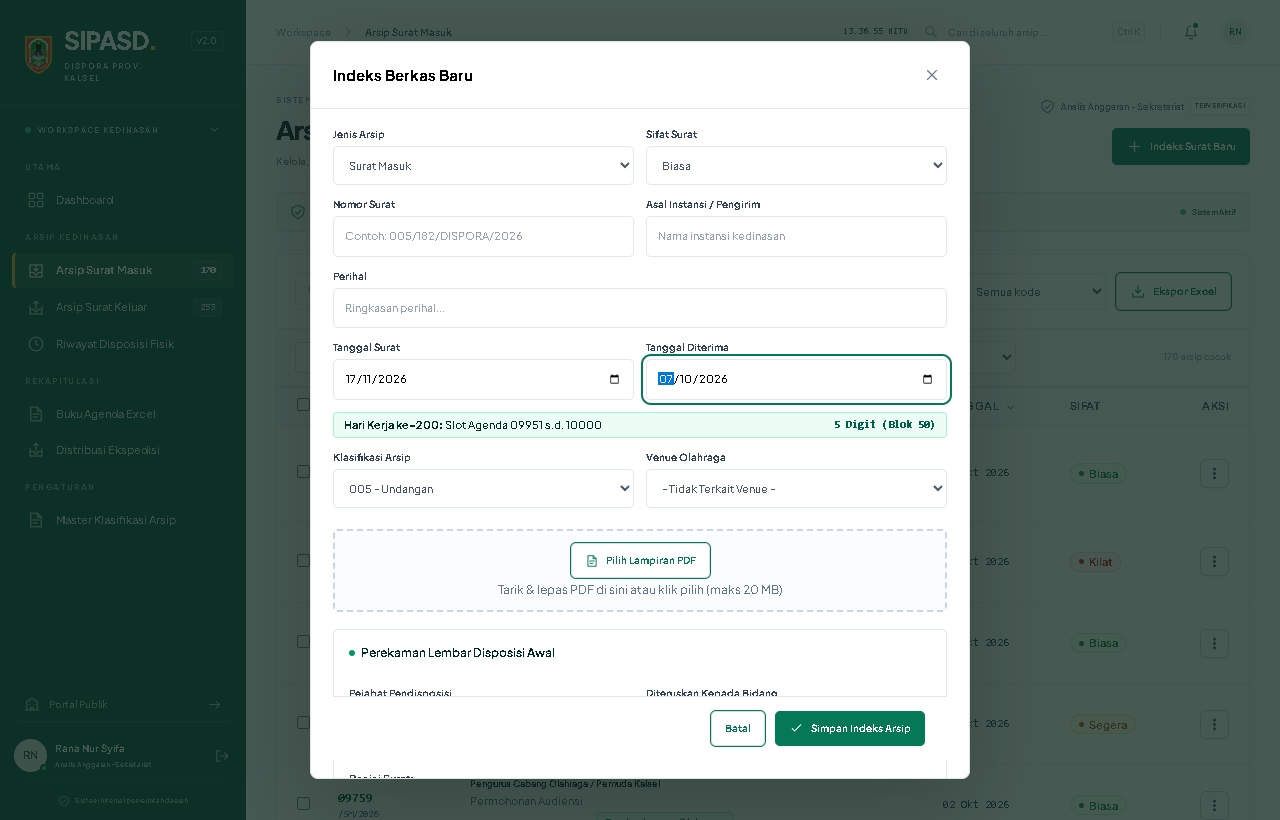
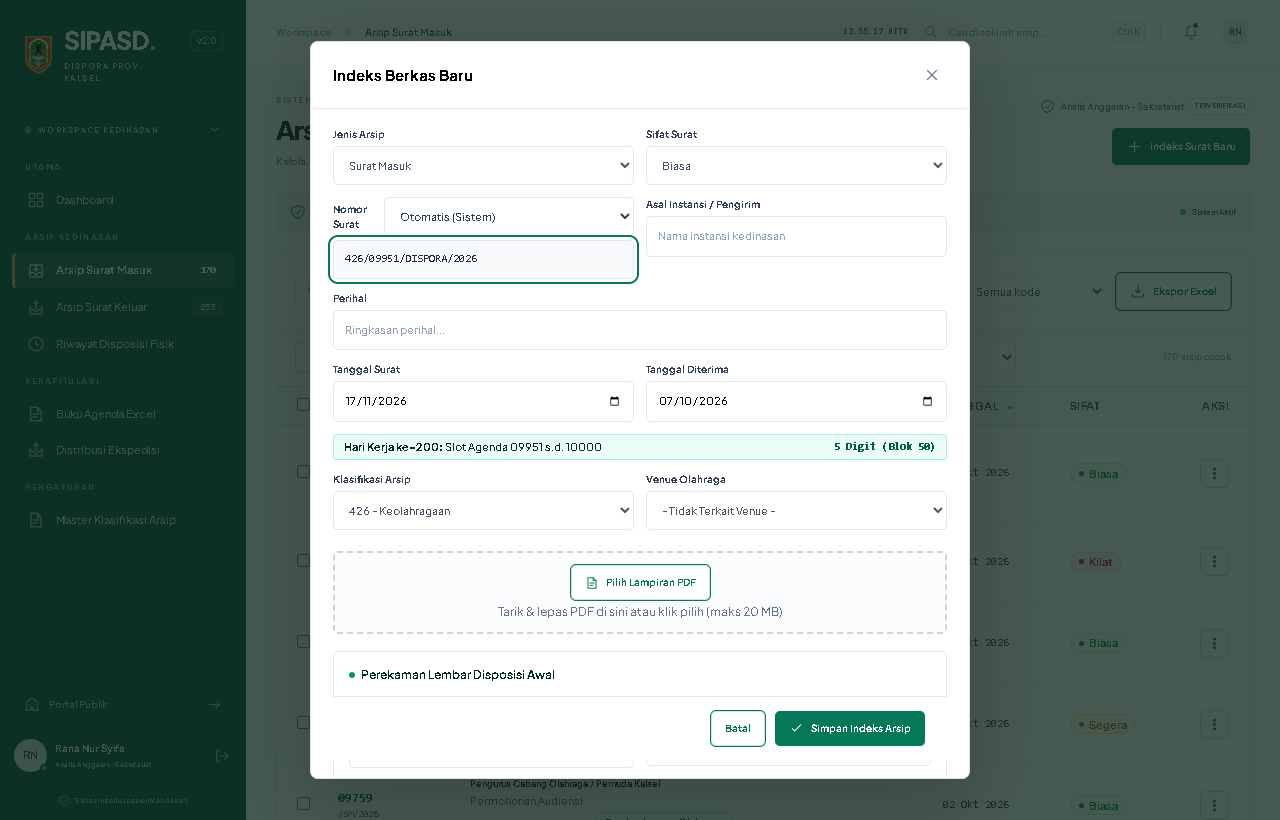
feat(surat): tambahkan otomatisasi nomor surat dinas dan dropdown mode manual

diff --git a/src/components/NewLetterModal.tsx b/src/components/NewLetterModal.tsx
@@ -6,16 +6,17 @@ import Icon from './Icon';
 import NewLetterDisposisiFields from './NewLetterDisposisiFields';
 import { classifications, venues, divisions } from '@/data/constants';
 import { classifyText, type ClassificationResult } from '@/lib/classifier';
-import { getWorkdayIndex, format5Digit } from '@/lib/workday-slot';
+import { getWorkdayIndex, format5Digit, calculateNextWorkdayAgenda } from '@/lib/workday-slot';
 import type { Direction, LetterRecord, Urgency } from '@/types';
 
 interface Props {
   direction: Direction;
   onClose: () => void;
   onSave: (letter: Omit<LetterRecord, 'id'>, file?: File, dispFile?: File) => Promise<void> | void;
+  letters?: LetterRecord[];
 }
 
-export default function NewLetterModal({ direction, onClose, onSave }: Props) {
+export default function NewLetterModal({ direction, onClose, onSave, letters }: Props) {
   const [kind, setKind] = useState<Direction>(direction);
   const [file, setFile] = useState<File>();
   const [dispFile, setDispFile] = useState<File | null>(null);
@@ -27,17 +28,19 @@ export default function NewLetterModal({ direction, onClose, onSave }: Props) {
   const [classCode, setClassCode] = useState('005');
   const [today] = useState(() => new Date().toISOString().slice(0, 10));
   const [pickedDate, setPickedDate] = useState(() => new Date().toISOString().slice(0, 10));
+  const [numMode, setNumMode] = useState<'auto' | 'manual'>('auto');
+  const [manualNum, setManualNum] = useState('');
   const fileInput = useRef<HTMLInputElement>(null);
   const uid = useId();
 
   const [pY, pM, pD] = pickedDate.split('-').map(Number);
-  const wDay = getWorkdayIndex(pY || 2026, pM || 1, pD || 1);
-  const sStart = (wDay - 1) * 50 + 1;
-  const sEnd = wDay * 50;
-
-  const handleSubject = (text: string) => {
-    setAiRec(text.trim().length >= 4 ? classifyText(text) : null);
-  };
+  const safeYear = !isNaN(pY) && pY >= 2000 && pY <= 2200 ? pY : 2026;
+  const wDay = getWorkdayIndex(safeYear, pM || 1, pD || 1);
+  const sStart = (wDay - 1) * 50 + 1, sEnd = wDay * 50;
+  const existingAgendas = (letters || []).filter((l) => l.direction === kind).map((l) => `${l.id}/${kind.toUpperCase()}/DISPORA/${l.date?.slice(0, 4) || safeYear}`);
+  const nextSlotInfo = calculateNextWorkdayAgenda(pickedDate, kind, existingAgendas);
+  const currentSlot = nextSlotInfo.agendaNumber.split('/')[0];
+  const autoNum = `${classCode}/${currentSlot}/DISPORA/${safeYear}`;
 
   return (
     <Modal title="Indeks Berkas Baru" onClose={onClose}>
@@ -67,8 +70,7 @@ export default function NewLetterModal({ direction, onClose, onSave }: Props) {
             }, file, dispFile || undefined);
             onClose();
           } catch (err: unknown) {
-            const msg = err instanceof Error ? err.message : 'Gagal menyimpan arsip.';
-            setError(msg);
+            setError(err instanceof Error ? err.message : 'Gagal menyimpan arsip.');
           } finally {
             setSaving(false);
           }
@@ -85,18 +87,38 @@ export default function NewLetterModal({ direction, onClose, onSave }: Props) {
             <select id={`${uid}-urg`} name="urgency" className="w-full"><option>Biasa</option><option>Penting</option><option>Segera</option><option>Kilat</option></select>
           </div>
           <div>
-            <label htmlFor={`${uid}-num`} className="block text-[11px] font-semibold text-slate-700 mb-1">Nomor Surat</label>
-            <input id={`${uid}-num`} name="number" required placeholder="Contoh: 005/182/DISPORA/2026" className="w-full" />
+            <div className="flex items-center justify-between mb-1">
+              <label htmlFor={`${uid}-num`} className="block text-[11px] font-semibold text-slate-700">Nomor Surat</label>
+              <select
+                value={numMode}
+                onChange={(e) => {
+                  const m = e.target.value as 'auto' | 'manual';
+                  setNumMode(m);
+                  if (m === 'manual' && !manualNum) setManualNum(autoNum);
+                }}
+                className="text-[10px] py-0.5 px-1.5 border border-slate-300 rounded bg-white text-slate-700 cursor-pointer"
+                title="Pilih mode penomoran surat"
+              >
+                <option value="auto">Otomatis (Sistem)</option>
+                <option value="manual">Manual (Ketik)</option>
+              </select>
+            </div>
+            <input
+              id={`${uid}-num`} name="number" required
+              value={numMode === 'auto' ? autoNum : manualNum}
+              onChange={(e) => { if (numMode === 'manual') setManualNum(e.target.value); }}
+              readOnly={numMode === 'auto'}
+              placeholder={numMode === 'auto' ? autoNum : 'Contoh: 005/182/DISPORA/2026'}
+              className={`w-full font-mono text-xs ${numMode === 'auto' ? 'bg-slate-50 text-slate-800' : 'bg-white'}`}
+            />
           </div>
           <div>
-            <label htmlFor={`${uid}-orig`} className="block text-[11px] font-semibold text-slate-700 mb-1">
-              {kind === 'in' ? 'Asal Instansi / Pengirim' : 'Tujuan Instansi'}
-            </label>
+            <label htmlFor={`${uid}-orig`} className="block text-[11px] font-semibold text-slate-700 mb-1">{kind === 'in' ? 'Asal Instansi / Pengirim' : 'Tujuan Instansi'}</label>
             <input id={`${uid}-orig`} name="origin" required placeholder="Nama instansi kedinasan" className="w-full" />
           </div>
           <div className="col-span-2">
             <label htmlFor={`${uid}-subj`} className="block text-[11px] font-semibold text-slate-700 mb-1">Perihal</label>
-            <input id={`${uid}-subj`} name="subject" required placeholder="Ringkasan perihal..." onChange={(e) => handleSubject(e.target.value)} className="w-full" />
+            <input id={`${uid}-subj`} name="subject" required placeholder="Ringkasan perihal..." onChange={(e) => setAiRec(e.target.value.trim().length >= 4 ? classifyText(e.target.value) : null)} className="w-full" />
           </div>
           {aiRec && (
             <div className="col-span-2 p-2 bg-emerald-50 border border-emerald-300 rounded flex items-center justify-between text-xs">
@@ -109,9 +131,7 @@ export default function NewLetterModal({ direction, onClose, onSave }: Props) {
             <input id={`${uid}-date`} name="date" type="date" defaultValue={today} required className="w-full" />
           </div>
           <div>
-            <label htmlFor={`${uid}-rec`} className="block text-[11px] font-semibold text-slate-700 mb-1">
-              {kind === 'in' ? 'Tanggal Diterima' : 'Tanggal Diterbitkan'}
-            </label>
+            <label htmlFor={`${uid}-rec`} className="block text-[11px] font-semibold text-slate-700 mb-1">{kind === 'in' ? 'Tanggal Diterima' : 'Tanggal Diterbitkan'}</label>
             <input id={`${uid}-rec`} name="received" type="date" value={pickedDate} onChange={(e) => setPickedDate(e.target.value)} required className="w-full" />
           </div>
           <div className="col-span-2 bg-emerald-50 border border-emerald-200 text-emerald-950 px-2.5 py-1 rounded flex items-center justify-between text-[11px]">
@@ -137,35 +157,23 @@ export default function NewLetterModal({ direction, onClose, onSave }: Props) {
         </div>
 
         <div
-          className={`file-box mt-2 p-3 border-2 border-dashed rounded text-center transition-all ${
-            isDrag ? 'border-emerald-600 bg-emerald-50/70' : 'border-slate-300 bg-slate-50/50'
-          }`}
+          className={`file-box mt-2 p-3 border-2 border-dashed rounded text-center transition-all ${isDrag ? 'border-emerald-600 bg-emerald-50/70' : 'border-slate-300 bg-slate-50/50'}`}
           onDragOver={(e) => { e.preventDefault(); setIsDrag(true); }}
           onDragLeave={() => setIsDrag(false)}
-          onDrop={(e) => {
-            e.preventDefault();
-            setIsDrag(false);
-            const dropped = e.dataTransfer.files?.[0];
-            if (dropped && dropped.name.toLowerCase().endsWith('.pdf')) setFile(dropped);
-          }}
+          onDrop={(e) => { e.preventDefault(); setIsDrag(false); const f = e.dataTransfer.files?.[0]; if (f?.name.toLowerCase().endsWith('.pdf')) setFile(f); }}
         >
           <input type="file" ref={fileInput} accept="application/pdf" className="hidden" onChange={(e) => setFile(e.target.files?.[0])} />
           {file ? (
             <div className="flex items-center justify-center gap-2 text-xs text-emerald-900 bg-emerald-100 py-1.5 px-3 rounded">
-              <Icon name="file" size={14} />
-              <span className="font-semibold truncate max-w-xs">{file.name}</span>
+              <Icon name="file" size={14} /><span className="font-semibold truncate max-w-xs">{file.name}</span>
               <span className="text-emerald-700 text-[11px]">({(file.size / 1024).toFixed(0)} KB)</span>
               {file.size > 4 * 1024 * 1024 && <span className="bg-amber-200 text-amber-900 text-[10px] px-1 rounded font-medium">Auto-Kompres</span>}
               <button type="button" className="ml-1 text-red-600 hover:text-red-800" onClick={() => setFile(undefined)} title="Hapus berkas">✕</button>
             </div>
           ) : (
             <>
-              <button type="button" className="btn outline" onClick={() => fileInput.current?.click()}>
-                <Icon name="file" size={14} /> Pilih Lampiran PDF
-              </button>
-              <span className="block text-xs text-slate-500 mt-1">
-                {isDrag ? 'Lepaskan berkas PDF di sini...' : 'Tarik & lepas PDF di sini atau klik pilih (maks 20 MB)'}
-              </span>
+              <button type="button" className="btn outline" onClick={() => fileInput.current?.click()}><Icon name="file" size={14} /> Pilih Lampiran PDF</button>
+              <span className="block text-xs text-slate-500 mt-1">{isDrag ? 'Lepaskan berkas PDF di sini...' : 'Tarik & lepas PDF di sini atau klik pilih (maks 20 MB)'}</span>
             </>
           )}
         </div>

diff --git a/src/components/AppModals.tsx b/src/components/AppModals.tsx
@@ -27,6 +27,7 @@ interface Props {
   onUpdateLetter: (id: string, updates: Partial<LetterRecord>, file?: File, dispFile?: File) => Promise<void>;
   confirmDelete: (trashDrive?: boolean) => Promise<void>;
   confirmBatchDelete: (trashDrive?: boolean) => Promise<void>;
+  letters?: LetterRecord[];
 }
 
 export default function AppModals({
@@ -50,6 +51,7 @@ export default function AppModals({
   onUpdateLetter,
   confirmDelete,
   confirmBatchDelete,
+  letters,
 }: Props) {
   return (
     <>
@@ -74,6 +76,7 @@ export default function AppModals({
           direction={page === 'out' ? 'out' : 'in'}
           onClose={() => setModal('')}
           onSave={onSaveLetter}
+          letters={letters}
         />
       )}
       {printLetter && (

diff --git a/src/components/SipasdApp.tsx b/src/components/SipasdApp.tsx
@@ -167,7 +167,7 @@ export default function SipasdApp({
         toast={toast} setModal={setModal} setSelected={setSelected} setPrintLetter={setPrintLetter}
         setEditTarget={setEditTarget} setDeleteTarget={setDeleteTarget} setBatchTargets={setBatchTargets}
         setSelectedIds={setSelectedIds} onSaveLetter={onSaveLetter} onUpdateLetter={handleUpdate}
-        confirmDelete={confirmDelete} confirmBatchDelete={confirmBatchDelete}
+        confirmDelete={confirmDelete} confirmBatchDelete={confirmBatchDelete} letters={letters}
       />
     </div>
   );

diff --git a/scripts/audit_e2e_workday_slots.py b/scripts/audit_e2e_workday_slots.py
@@ -136,6 +136,56 @@ async def main():
         assert "Hari Kerja ke-200" in badge_text_4, "Expected Hari Kerja ke-200"
         assert "09951 s.d. 10000" in badge_text_4, "Expected Slot 09951 s.d. 10000"
 
+        # 2.3.b Test Otomatisasi & Dropdown Mode Nomor Surat
+        print("  --> Menguji Otomatisasi Nomor Surat & Dropdown Mode (Auto vs Manual)...")
+        num_input = page.locator("input[name='number']")
+        mode_select = page.locator("select[title='Pilih mode penomoran surat']")
+        cls_select = page.locator("select[name='classification']")
+
+        # Pada tanggal 2026-10-07 (Hari Kerja 200), slot agenda mulai 09951
+        num_val_1 = await num_input.input_value()
+        print(f"    ✓ Nilai Awal Nomor Surat (Otomatis): '{num_val_1}'")
+        assert "005/" in num_val_1, f"Expected 005/ in {num_val_1}"
+        assert "/DISPORA/2026" in num_val_1, f"Expected /DISPORA/2026 in {num_val_1}"
+        assert await num_input.is_editable() == False, "Input nomor surat harus readOnly saat mode otomatis"
+
+        # Ubah Klasifikasi ke 045 (Kearsipan)
+        await cls_select.select_option("045")
+        await asyncio.sleep(0.2)
+        num_val_2 = await num_input.input_value()
+        print(f"    ✓ Klasifikasi 045 terpilih: '{num_val_2}' (Otomatis ganti 045)")
+        assert num_val_2.startswith("045/"), f"Nomor surat harus berawalan 045/, didapat: {num_val_2}"
+
+        # Ubah Klasifikasi ke 426 (Keolahragaan)
+        await cls_select.select_option("426")
+        await asyncio.sleep(0.2)
+        num_val_3 = await num_input.input_value()
+        print(f"    ✓ Klasifikasi 426 terpilih: '{num_val_3}' (Otomatis ganti 426)")
+        assert num_val_3.startswith("426/"), f"Nomor surat harus berawalan 426/, didapat: {num_val_3}"
+
+        # Beralih ke Mode Manual melalui Dropdown
+        print("    --> Menguji beralih ke Mode Manual...")
+        await mode_select.select_option("manual")
+        await asyncio.sleep(0.2)
+        assert await num_input.is_editable() == True, "Input nomor surat harus dapat diketik saat mode manual"
+        await num_input.fill("000.8.3.4/999/DISKOMINFO/2026")
+        await asyncio.sleep(0.2)
+        manual_val = await num_input.input_value()
+        print(f"    ✓ Mode Manual aktif & terisi: '{manual_val}'")
+        assert manual_val == "000.8.3.4/999/DISKOMINFO/2026"
+
+        # Beralih kembali ke Mode Otomatis
+        print("    --> Menguji beralih kembali ke Mode Otomatis...")
+        await mode_select.select_option("auto")
+        await asyncio.sleep(0.2)
+        auto_back_val = await num_input.input_value()
+        print(f"    ✓ Mode Otomatis kembali sinkron: '{auto_back_val}'")
+        assert auto_back_val.startswith("426/"), "Nomor surat otomatis harus kembali sinkron dengan klasifikasi"
+        assert await num_input.is_editable() == False
+
+        await page.screenshot(path="public/audit_auto_nomor_surat.png")
+        print("    ✓ Screenshot otomatisasi nomor surat tersimpan di public/audit_auto_nomor_surat.png")
+
         await page.screenshot(path="public/audit_workday_modal_5digit.png")
         print("    ✓ Screenshot modal tersimpan di public/audit_workday_modal_5digit.png")
 

diff --git a/docs/CHANGELOG.md b/docs/CHANGELOG.md
@@ -5,6 +5,20 @@ Format: `[YYYY-MM-DD] Fitur/Perbaikan - Deskripsi`
 
 ---
 
+## [2026-11-17] Otomatisasi Generator Nomor Surat ({Klasifikasi}/{Slot}/DISPORA/{Tahun}) dan Dropdown Mode
+
+- Generator Otomatis Nomor Surat: Pada formulir Indeks Berkas Baru, input Nomor Surat otomatis terisi dengan format standar kedinasan Dispora: `{kode_klasifikasi}/{slot_agenda}/DISPORA/{tahun}`.
+  * Kode Klasifikasi: Dinamis mengikuti pilihan Klasifikasi Arsip (misal 005, 045, 426, 800, 900) atau rekomendasi AI.
+  * Slot Agenda: Menghitung slot naskah aktif pada tanggal hari kerja tersebut secara presisi.
+  * DISPORA: Tetap sebagai penanda instansi resmi.
+  * Tahun: Mengikuti tahun dari tanggal naskah terpilih secara otomatis (2026, 2027, dst.).
+- Dropdown Mode Penomoran (Otomatis vs Manual): Disediakan dropdown pemilih mode di samping label Nomor Surat:
+  * Otomatis (Sistem): Bidang input terkunci aman (read-only) dengan nilai dinamis tersinkronisasi otomatis.
+  * Manual (Ketik): Bidang input terbuka untuk pengetikan nomor eksternal secara bebas (misal naskah masuk dari instansi luar).
+- Audit Google Chrome: Teruji dan lolos 100% pada peramban Chrome nyata dengan skrip scripts/audit_e2e_workday_slots.py.
+
+---
+
 ## [2026-11-17] Sistem Nomor Agenda 5 Digit Blok 50 per Hari Kerja dan Migrasi 423 Naskah
 
 - Sistem Nomor Agenda Blok 50 Slot Harian: Menerapkan sistem penomoran agenda berbasis hari kerja resmi (Senin s.d. Jumat). Setiap hari kerja mendapatkan alokasi kuota 50 nomor agenda.
